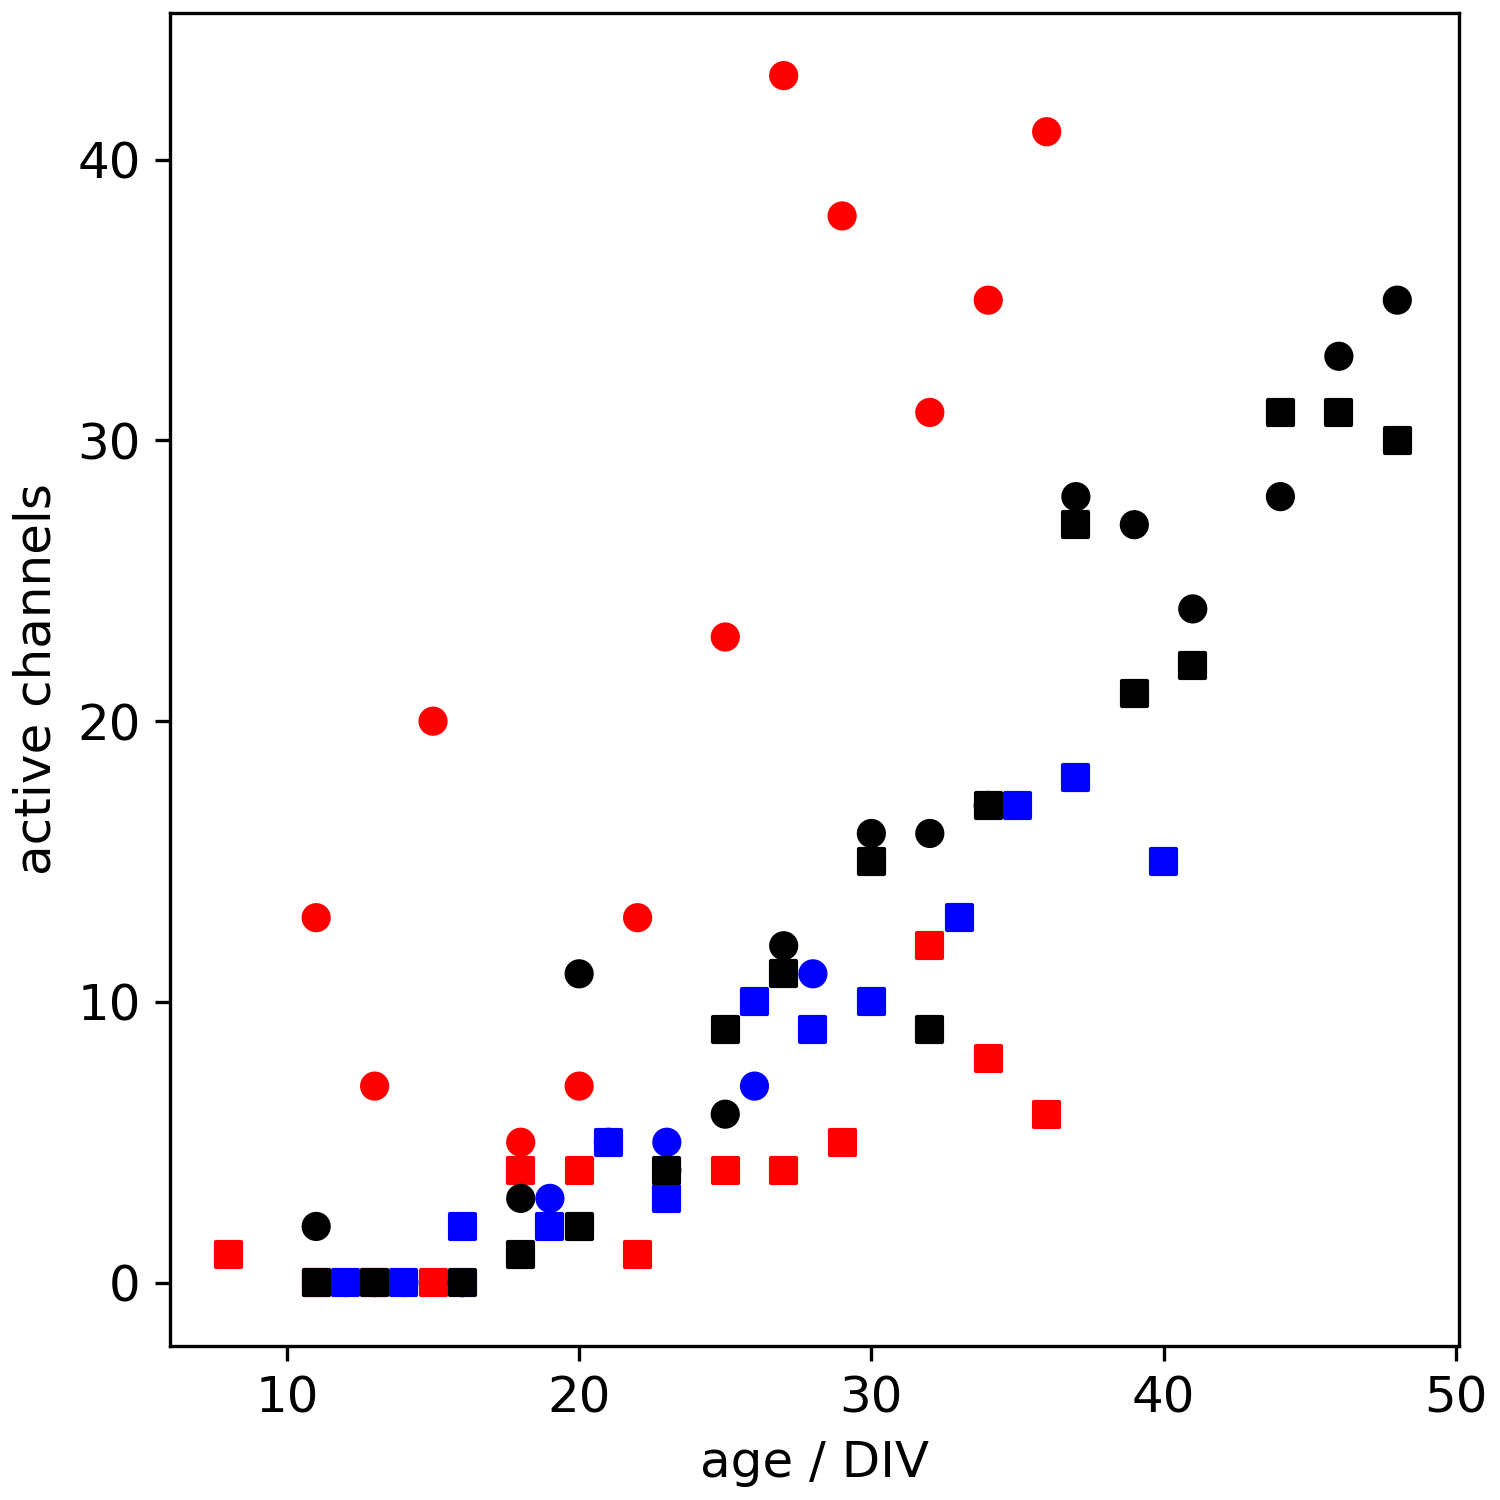
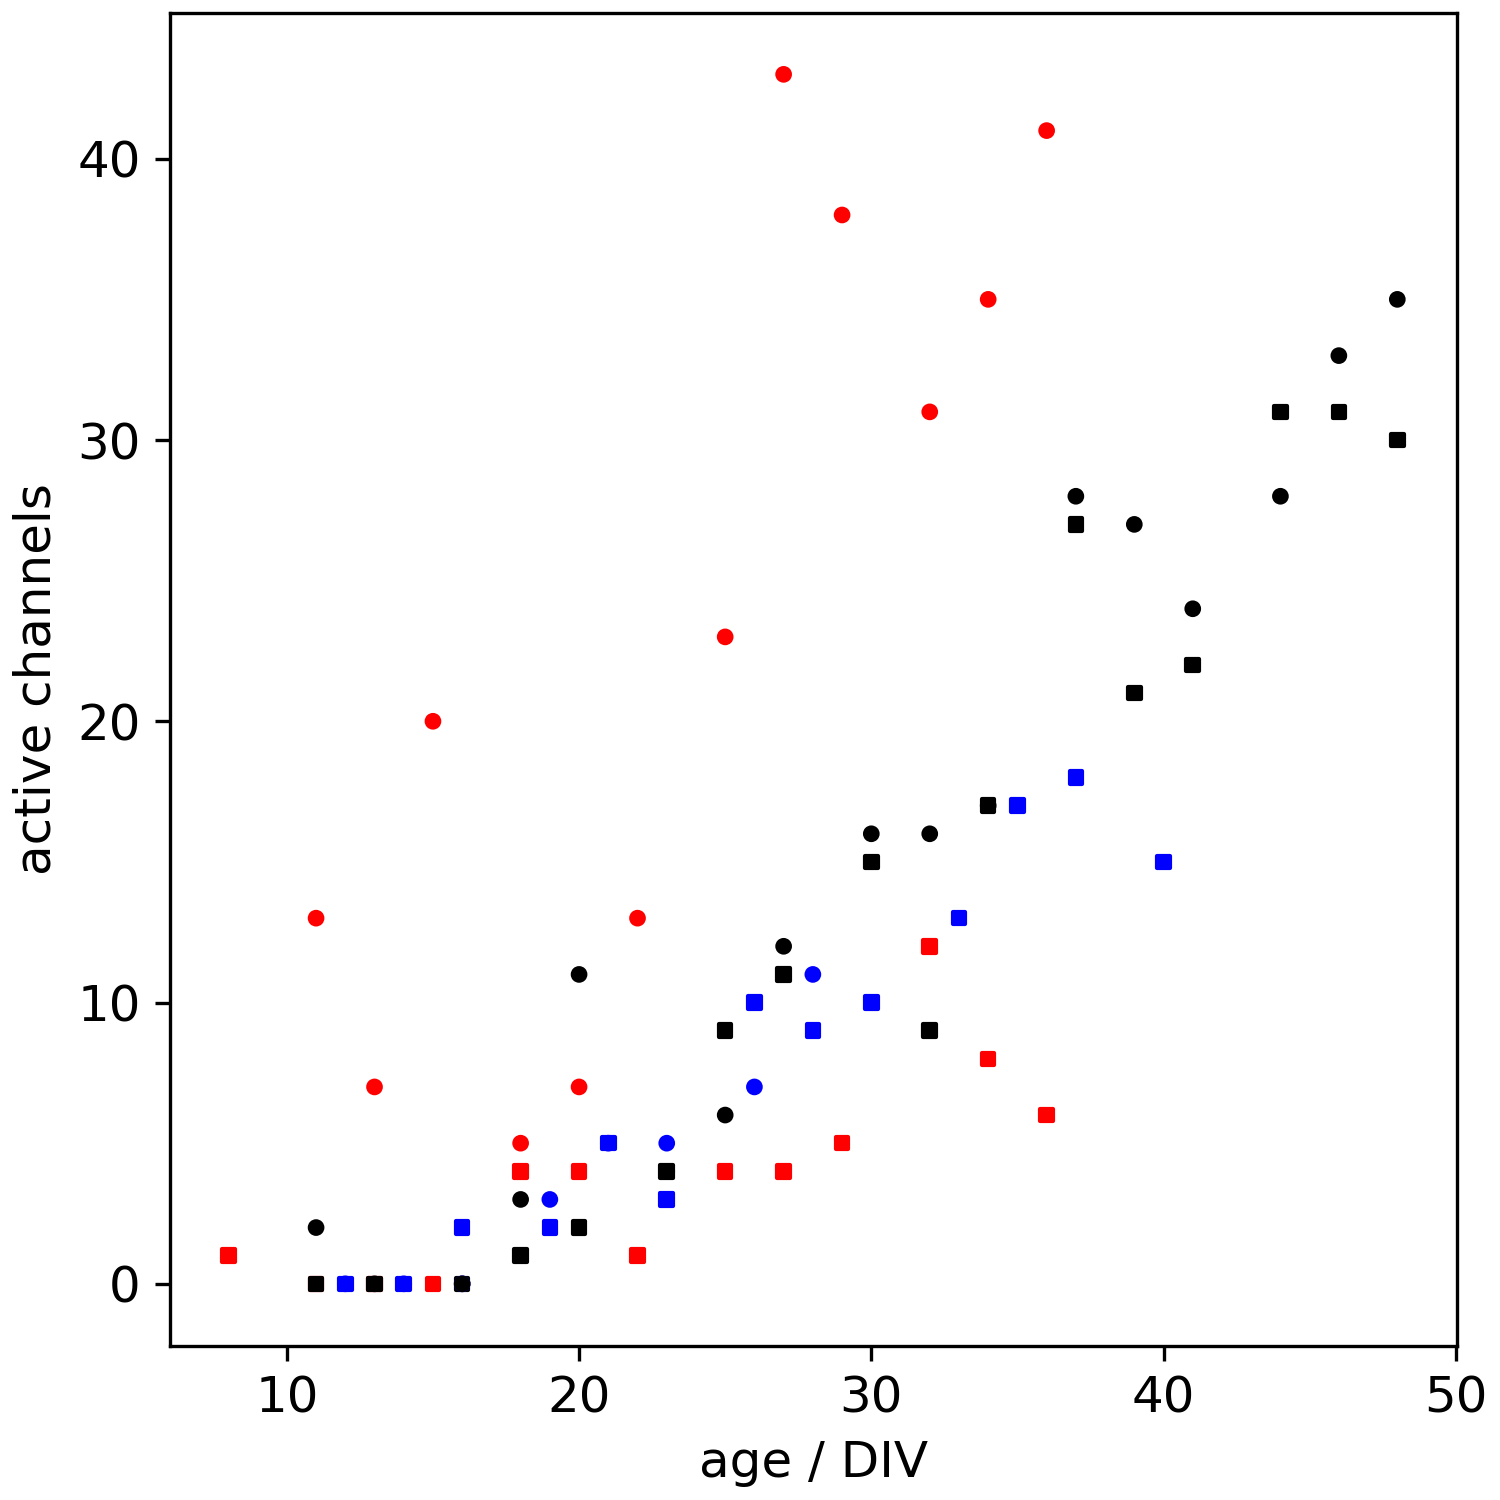
Plot all points for channel firing rate

diff --git a/scripts/compute_summary_statistics.py b/scripts/compute_summary_statistics.py
@@ -18,13 +18,14 @@ matplotlib.rcParams["figure.dpi"] = 300
 matplotlib.rcParams["figure.figsize"] = [5, 5]
 matplotlib.rcParams["figure.constrained_layout.use"] = True
 matplotlib.rcParams["font.size"] = 12.0
+matplotlib.rcParams["lines.markersize"] = 3.0
 
 DATA_DIR = "../data/2020-02-21_fd/"
 FIGURE_FILE = "../plots/development_plots_"
 data_files = [os.path.join(DATA_DIR, file) for file in os.listdir(DATA_DIR)]
 
-age_l, fr_l, N_l, active_channels_l, ts_l, fr_perchan_l, colours =\
-    ({"2539": [], "2540": []} for i in range(7))
+age_l, age_perchan_l, fr_l, N_l, active_channels_l, ts_l, fr_perchan_l, \
+    colours, colours_perchan = ({"2539": [], "2540": []} for i in range(9))
 fr_errors = {"2539": [[], []], "2540": [[], []]}
 for file in data_files:
     # load package
@@ -38,6 +39,20 @@ for file in data_files:
 
     age = package.descriptor["meta"]["age"]
     age_l[mea].append(age)
+    
+    datestamp = package.descriptor["meta"]["date"]
+    recording_date = datetime.date(int("20" + datestamp[:2]),
+                                   int(datestamp[2:4]),
+                                   int(datestamp[4:]))
+    if RECORDING_ATTEMPTS[0][0] <= recording_date <= RECORDING_ATTEMPTS[0][1]:
+        colour = "r"
+    elif RECORDING_ATTEMPTS[1][0] <= recording_date <= RECORDING_ATTEMPTS[1][1]:
+        colour = "b"
+    elif RECORDING_ATTEMPTS[2][0] <= recording_date <= RECORDING_ATTEMPTS[2][1]:
+        colour = "k"
+    else:
+        raise BaseException("Something is wrong.")
+    colours[mea].append(colour)
 
     # compute mean firing rate
     if spikes.any():
@@ -48,23 +63,17 @@ for file in data_files:
 
     # firing rate per channel
     if channels:
-        channel_fr = [float(
-            elephant.statistics.mean_firing_rate(train))
-                      for train in channels.values()]
-        mean_fr = statistics.mean(channel_fr)
-        fr_perchan_l[mea].append(mean_fr)
-        # upper errors
-        fr_errors[mea][1].append(
-            max(channel_fr) - mean_fr
-            )
-        # lower errors
-        fr_errors[mea][0].append(
-            mean_fr - min(channel_fr)
-            )
+        for train in channels.values():
+            fr_perchan = elephant.statistics.mean_firing_rate(train)
+            age_perchan_l[mea].append(age)
+            fr_perchan_l[mea].append(fr_perchan)
+            colours_perchan[mea].append(colour)
     else:
+        age_perchan_l[mea].append(age)
         fr_perchan_l[mea].append(0)
         fr_errors[mea][0].append(0)
         fr_errors[mea][1].append(0)
+        colours_perchan[mea].append(colour)
 
     # number of spikes
     N_l[mea].append(len(spikes))
@@ -75,19 +84,6 @@ for file in data_files:
 
     # computed recording time
     ts_l[mea].append(t_stop)
-
-    datestamp = package.descriptor["meta"]["date"]
-    recording_date = datetime.date(int("20" + datestamp[:2]),
-                                   int(datestamp[2:4]),
-                                   int(datestamp[4:]))
-    if RECORDING_ATTEMPTS[0][0] <= recording_date <= RECORDING_ATTEMPTS[0][1]:
-        colours[mea].append("r")
-    elif RECORDING_ATTEMPTS[1][0] <= recording_date <= RECORDING_ATTEMPTS[1][1]:
-        colours[mea].append("b")
-    elif RECORDING_ATTEMPTS[2][0] <= recording_date <= RECORDING_ATTEMPTS[2][1]:
-        colours[mea].append("k")
-    else:
-        raise BaseException("Something is wrong.")
 
 # plot data
 figure, axes = plt.subplots()
@@ -131,14 +127,10 @@ plt.savefig(FIGURE_FILE + "recording_time.png")
 plt.close()
 
 figure, axes = plt.subplots()
-axes.scatter(age_l["2539"], fr_perchan_l["2539"], c=colours["2539"],
-             marker="s")
-axes.scatter(age_l["2540"], fr_perchan_l["2540"], c=colours["2540"],
-             marker="o")
-axes.errorbar(age_l["2539"], fr_perchan_l["2539"], fmt="none",
-              yerr=fr_errors["2539"], ecolor="k")
-axes.errorbar(age_l["2540"], fr_perchan_l["2540"], fmt="none",
-              yerr=fr_errors["2540"], ecolor="k")
+axes.scatter(age_perchan_l["2539"], fr_perchan_l["2539"],
+             c=colours_perchan["2539"], marker="s")
+axes.scatter(age_perchan_l["2540"], fr_perchan_l["2540"],
+             c=colours_perchan["2540"], marker="o")
 axes.set_xlabel("age / DIV")
 axes.set_ylabel("firing rate\nper channel / $s^{-1}$")
 plt.savefig(FIGURE_FILE + "fr_perchan.png")
